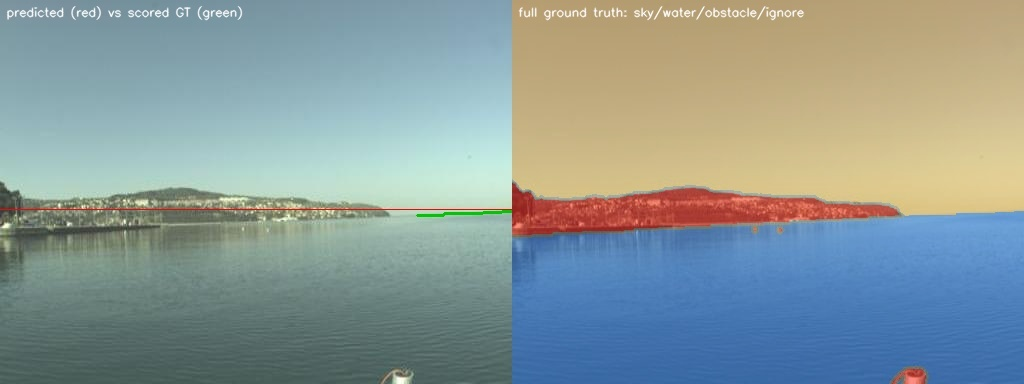
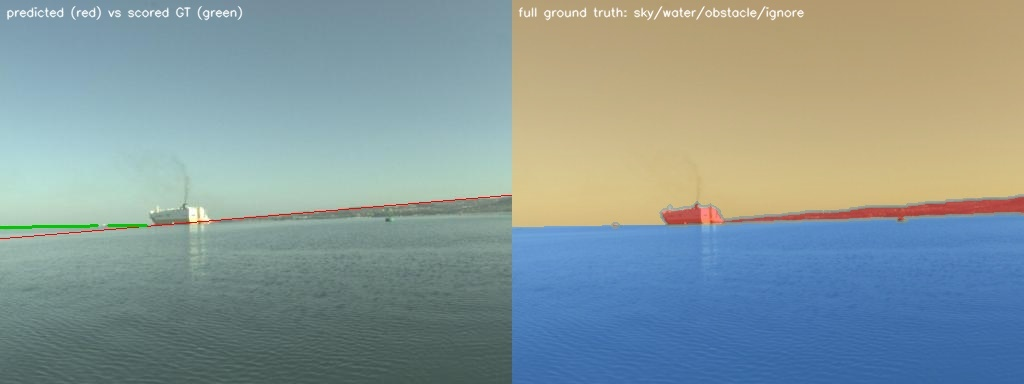
Report full-dataset (1325 images) horizon baseline results
Evaluated on the full MaSTr1325 dataset instead of the 50-image dev
sample: 414/1325 images scoreable (31% of columns have a clean
sky/water transition), MAE 15.6px per image, worst case 77.1px.

The more important number is the 69% of images with no scoreable
column at all — the 50-image sample understated this (12.3px/18
evaluated looked much rosier). Document the gap explicitly rather than
letting the smaller-sample number stand as the headline result.

Regenerated the three README example images from the full dataset;
the new worst case (a large obstacle under heavy haze) is a clearer
illustration of the failure mode than the previous one.

diff --git a/README.md b/README.md
@@ -74,28 +74,38 @@ the detector only on mask columns that are a clean sky-then-water
 transition, and reports what fraction of columns actually qualify — so the
 number isn't silently inflated by skipping the hard cases.
 
-Measured on the 50-image MaSTr1325 sample (`scripts/evaluate_horizon.py`):
+Measured on the **full** MaSTr1325 dataset, 1325 images
+(`scripts/evaluate_horizon.py`):
 
 ```
-Images evaluated: 18 (skipped: 32 — no clean sky/water columns, e.g. coastline fills the frame)
-Mean fraction of columns with clean ground truth: 32.5%
+Images evaluated: 414 (skipped: 911 — no clean sky/water columns, e.g. coastline or a large obstacle fills the frame)
+Mean fraction of columns with clean ground truth: 31.0%
 Pixel error over all valid columns, all images:
-  MAE:    19.5 px
-  Median: 27.0 px
-Per-image MAE: mean 12.3 px, worst 38.5 px, best 0.4 px
+  MAE:    16.5 px
+  Median: 7.1 px
+  Std:    16.8 px
+Per-image MAE: mean 15.6 px, worst 77.1 px, best 0.2 px
 ```
 
-Per-image mean MAE (12.3px) lands in the same range as published deep
+Two things worth being upfront about. First, **69% of the dataset (911/1325
+images) has no column this metric can even score** — the straight-line
+assumption isn't just imprecise on those, it's inapplicable, and that
+fraction is the more honest signal than the pixel error itself. Second,
+per-image mean MAE (15.6px) is in the same range as published deep
 segmentation baselines on the related MODD2 benchmark (SegNet 13.5px,
-PSPNet 13.8px — see [MODD2 leaderboard](https://box.vicos.si/borja/viamaro/index.html)),
-but on a much easier, cherry-picked subset of columns and only a third of
-the sample images at all — this is a baseline to beat, not a result to
-lean on.
+PSPNet 13.8px — see [MODD2 leaderboard](https://box.vicos.si/borja/viamaro/index.html))
+— but again only on the third of images with an easy, mostly-open-water
+scene, and with a long tail: worst case 77.1px. This is a baseline to
+beat, not a result to lean on.
+
+(An earlier 50-image dev sample gave a rosier-looking 12.3px mean MAE —
+the gap shows why evaluating on a tiny sample before scaling up would have
+been misleading.)
 
 Run it yourself:
 
 ```bash
-python scripts/fetch_mastr1325_sample.py   # if not done already
+python scripts/fetch_mastr1325_sample.py --n 1325   # the whole dataset
 python scripts/evaluate_horizon.py
 ```
 
@@ -107,17 +117,17 @@ missing data. Right: the full ground-truth mask with nothing filtered out
 (orange=sky, blue=water, red=obstacle, gray=ignore), so you can always see
 what the left panel's green dots are a subset of.
 
-| Best (0.4px) | Median (4.3px) | Worst (38.5px) |
+| Best (0.2px) | Median (6.4px) | Worst (77.1px) |
 |---|---|---|
 | ![best](docs/examples/horizon_best.jpg) | ![median](docs/examples/horizon_median.jpg) | ![worst](docs/examples/horizon_worst.jpg) |
 
-The median example shows why: MaSTr1325 labels coastline as obstacle, and
-coastline dominates most of the frame width in a lot of these images — only
-the small strip of open water on the right has a clean sky/water column to
-score. The worst case shows the detector's real failure mode: the
-Hough-based line latched onto a haze/cloud band above the true horizon
-(clearly visible as the gap between the red line and the blue water region
-on the right panel) — not a coastline problem, a contrast problem.
+The median example shows a ship sitting on the horizon with a mild slope
+mismatch between predicted and ground truth — the kind of error a learned
+model should close. The worst case is a large obstacle (a pier/mooring
+structure) filling most of the frame under heavy haze: only a thin strip
+of open water is left to score, and the line locks onto the haze band well
+above the real waterline — visible directly by comparing the red line
+against the blue water region on the right panel.
 
 Generate overlays for the whole sample with:
 
